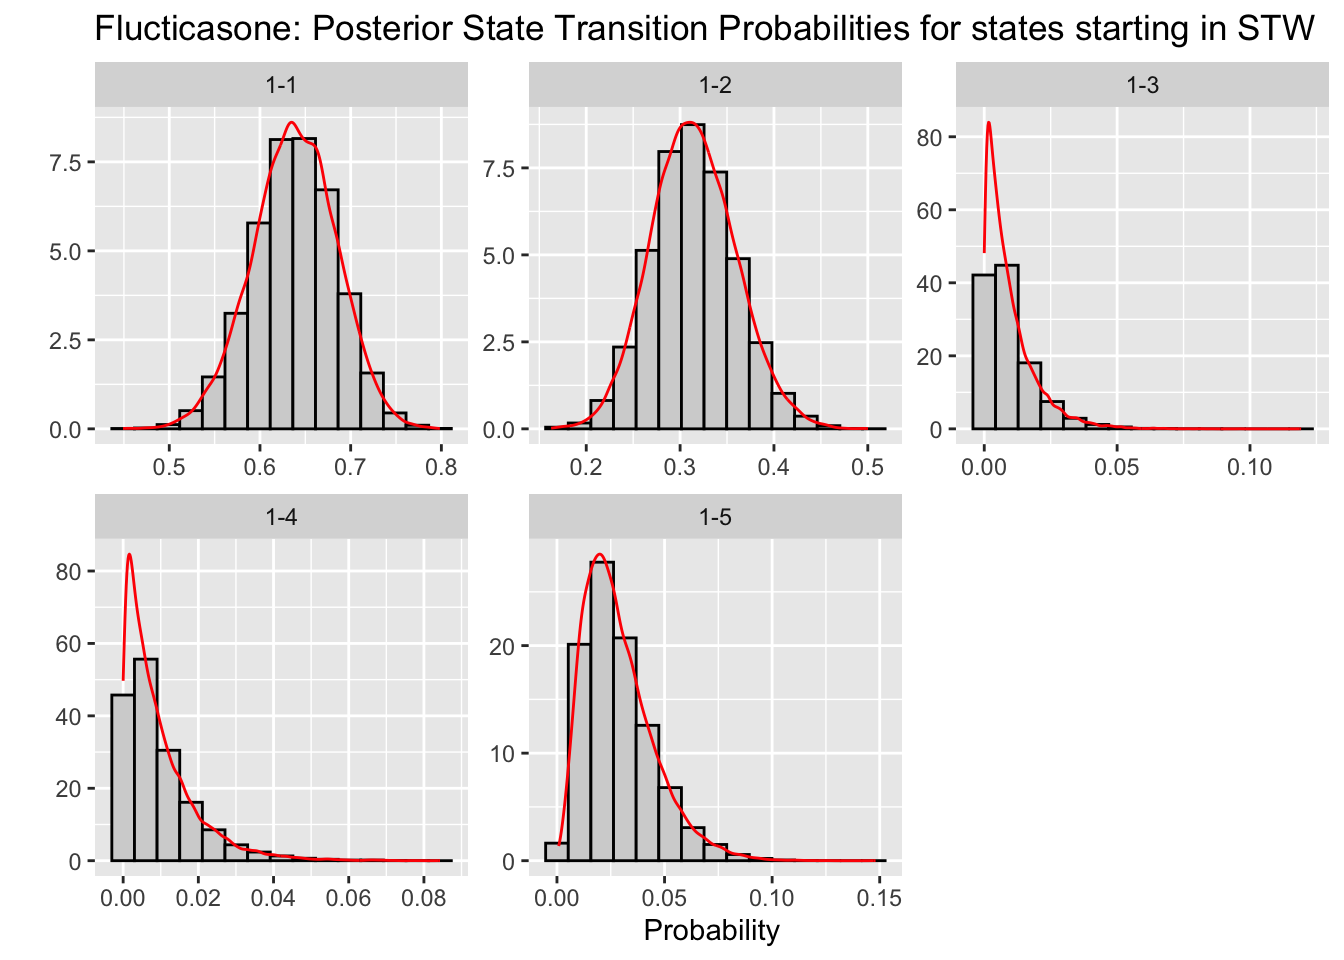
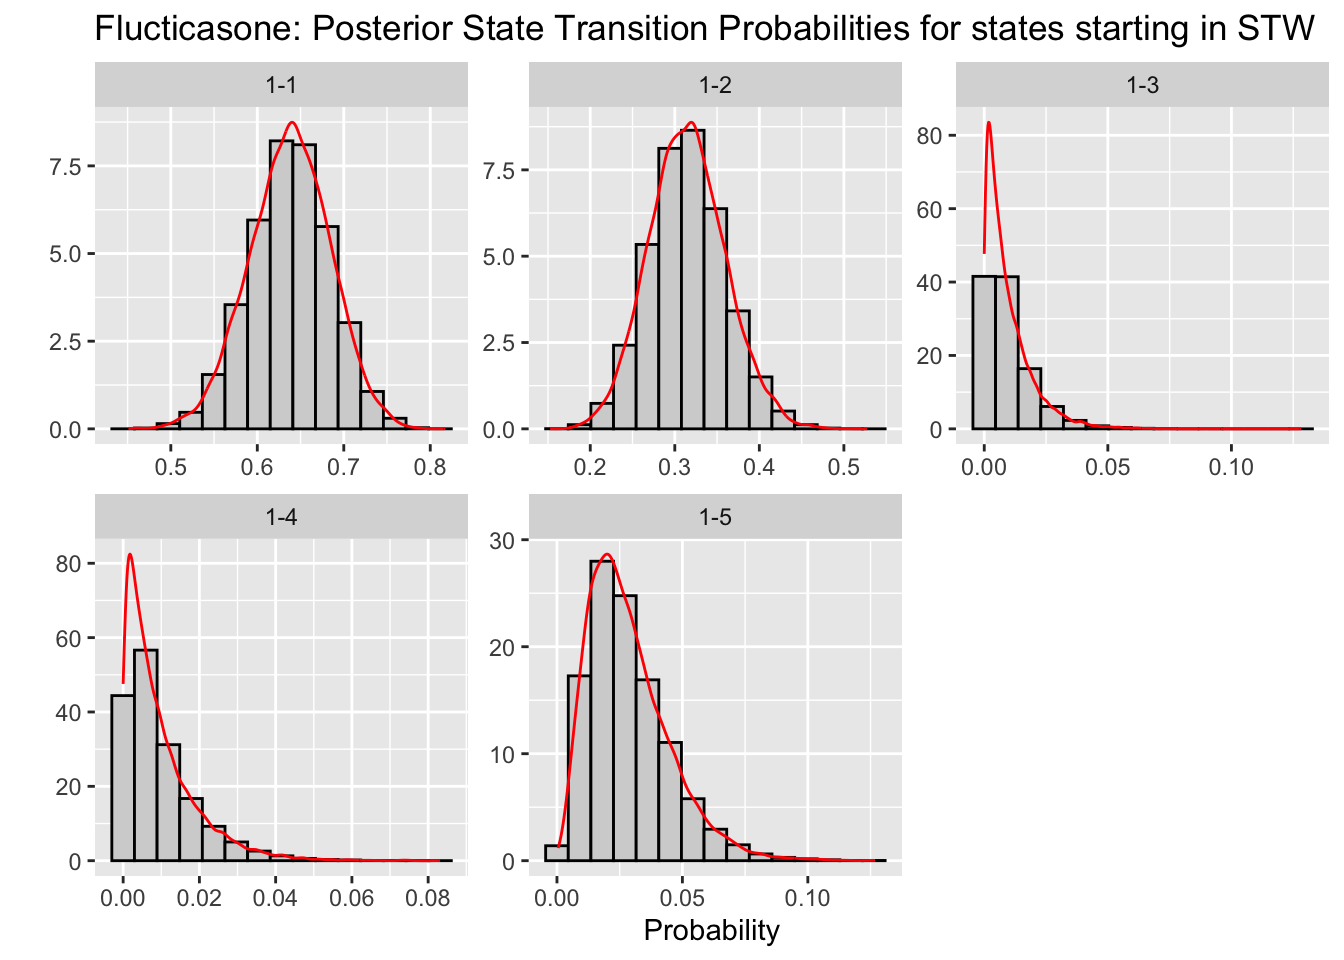
JBR: Added section on Bayesian model

diff --git a/DT_Absorbing_MC/Index.html b/DT_Absorbing_MC/Index.html
@@ -258,9 +258,15 @@ Pex   0   4   0   1  0</code></pre>
 </div>
 </div>
 </section>
-<section id="conjugate-prior-results" class="level2">
-<h2 class="anchored" data-anchor-id="conjugate-prior-results">Conjugate Prior Results</h2>
-<p>In this section we compute the posterior distributions of the transition probabilities using the conjugate prior approach. The Dirichlet distribution is the conjugate prior for the multinomial distribution, so the posterior distribution is also a Dirichlet distribution. The parameters of the posterior distribution are the sum of the prior parameters and the observed counts.</p>
+<section id="the-bayesian-model" class="level2">
+<h2 class="anchored" data-anchor-id="the-bayesian-model">THe Bayesian Model</h2>
+<p>In this section we compute the posterior distributions of the transition probabilities using the conjugate prior approach. The Dirichlet distribution is the conjugate prior for the multinomial distribution, so the posterior distribution is also a Dirichlet distribution.</p>
+<section id="the-dirichlet-distribution" class="level3">
+<h3 class="anchored" data-anchor-id="the-dirichlet-distribution">The Dirichlet Distribution</h3>
+<p>The <a href="https://en.wikipedia.org/wiki/Dirichlet_distribution">Dirichlet distribution</a> is a multivariate generalization of the beta distribution which is parameterized by a vector of positive real numbers, and is defined over a simplex a generalization of the concept of a triangle to higher dimensions. The probability density function (PDF) of the Dirichlet distribution is given by:</p>
+<p><span class="math display">\[ p(x) = \dfrac{\Gamma(\alpha_0)}{\Gamma(\alpha_1)...\Gamma(\alpha_n)} \prod_{i = 1}^{n}x_i^{\alpha_i - 1}I(x \in S)\]</span></p>
+<p>where <span class="math inline">\(\alpha_0 = \sum_{i=1}^{n} \alpha_i\)</span>, <span class="math inline">\(I(x)\)</span> is the indicator function, <span class="math inline">\(\Gamma\)</span> is the gamma function, and the simplex <span class="math inline">\(S = x \in \mathbb{R}^n: x_i &gt; 0, \sum_{i=1}^{n} x_i = 1\)</span> is the space of probability distributions. You can think of the Dirichlet distribution as a distribution on probability distributions. It models proportions or probabilities that sum to one, such as the transition probabilities in a Markov chain, and is often used as a prior distribution in Bayesian models since it is conjugate with the Multinomial distribution. (See Tufts in the references below.). The parameters of the Dirichlet posterior distrioution is the vector sum of the prior parameters and the observed counts. When the <span class="math inline">\(\alpha_i\)</span> parameters are all equal, the Dirichlet distribution is symmetric and uniform over the simplex. When the parameters are unequal, the distribution is skewed towards the larger parameters. In the code below the <span class="math inline">\(\alpha_i\)</span> parameters are set to 1.</p>
+</section>
 <section id="seretide-simulations" class="level3">
 <h3 class="anchored" data-anchor-id="seretide-simulations">Seretide Simulations</h3>
 <div class="cell">
@@ -412,7 +418,7 @@ TF  0.00 0.00 0.00 0.00 1.00</code></pre>
 STW 0.64 0.31 0.01 0.01 0.03
 UTW 0.05 0.05 0.05 0.05 0.05
 Hex 0.20 0.20 0.20 0.20 0.20
-Pex 0.29 0.14 0.14 0.14 0.28
+Pex 0.29 0.14 0.14 0.14 0.29
 TF  0.00 0.00 0.00 0.00 1.00</code></pre>
 </div>
 </div>
@@ -422,7 +428,7 @@ TF  0.00 0.00 0.00 0.00 1.00</code></pre>
 <section id="fundamental-matrix" class="level3">
 <h3 class="anchored" data-anchor-id="fundamental-matrix">Fundamental Matrix</h3>
 <p>For an absorbing Markov Chain, the fundamental matrix, <span class="math inline">\(N\)</span>, gives the expected number of times the process is in each transient state before absorption occurs. <span class="math inline">\(N\)</span> is calculated by the formula <span class="math inline">\(N = (I - Q)^{-1}\)</span>, where <span class="math inline">\(I\)</span> is the identity matrix and <span class="math inline">\(Q\)</span> is the sub-matrix of transition probabilities for non-absorbing states.</p>
-<p>The first step in computing <span class="math inline">\(N\)</span> is to partition the transition matrix into sub matrices of transient <span class="math inline">\(Q_\)</span>, and absorbing <span class="math inline">\(R\)</span> transition probabilities.</p>
+<p>The first step in computing <span class="math inline">\(N\)</span> is to partition the transition matrix into sub matrices of transient <span class="math inline">\(Q\)</span>, and absorbing <span class="math inline">\(R\)</span> transition probabilities.</p>
 <p><img src="N.png" class="img-fluid"></p>
 <section id="extract-the-q-matrix" class="level4">
 <h4 class="anchored" data-anchor-id="extract-the-q-matrix">Extract the Q matrix</h4>
@@ -499,10 +505,10 @@ Pex 0.29 0.14 0.14 0.14</code></pre>
 </details>
 <div class="cell-output cell-output-stdout">
 <pre><code>     STW  UTW  Hex  Pex
-STW 5.61 1.52 0.31 0.33
+STW 5.62 1.53 0.31 0.33
 UTW 1.41 1.60 0.30 0.30
-Hex 2.37 1.02 1.50 0.51
-Pex 2.50 0.94 0.40 1.41</code></pre>
+Hex 2.39 1.02 1.50 0.51
+Pex 2.51 0.94 0.40 1.41</code></pre>
 </div>
 </div>
 </div><div class="column" style="width:10%;">
@@ -517,7 +523,7 @@ Pex 2.50 0.94 0.40 1.41</code></pre>
 <pre><code>     STW  UTW  Hex  Pex
 STW 3.09 1.07 0.13 0.13
 UTW 0.30 1.19 0.10 0.10
-Hex 1.16 0.74 1.38 0.38
+Hex 1.17 0.74 1.38 0.38
 Pex 1.28 0.68 0.29 1.29</code></pre>
 </div>
 </div>
@@ -546,10 +552,10 @@ Pex 1.28 0.68 0.29 1.29</code></pre>
 </details>
 <div class="cell-output cell-output-stdout">
 <pre><code>    Seretide Flucticasone
-STW     7.77         4.42
-UTW     3.61         1.69
-Hex     5.40         3.66
-Pex     5.25         3.54</code></pre>
+STW     7.79         4.42
+UTW     3.62         1.70
+Hex     5.42         3.66
+Pex     5.27         3.53</code></pre>
 </div>
 </div>
 </section>
@@ -651,6 +657,13 @@ Fluticasone 2.05</code></pre>
 </div>
 </div>
 </section>
+</section>
+<section id="references" class="level2">
+<h2 class="anchored" data-anchor-id="references">References</h2>
+<p>Atanasov, N <a href="https://natanaso.github.io/ece276b/ref/Grinstead-Snell-Ch11.pdf">Chapter 11: Markov Chains</a></p>
+<p>Briggs AH, Ades AE, Price MJ. <a href="https://journals.sagepub.com/doi/abs/10.1177/0272989X03255922">Probabilistic Sensitivity Analysis for Decision Trees with Multiple Branches: Use of the Dirichlet Distribution in a Bayesian Framework. Medical Decision Making</a>, 2003</p>
+<p>M Kavuru, J Melamed, G Gross, C Laforce, K House, B Prillaman, L Baitinger, A Woodring, T Shah, <a href="https://pubmed.ncbi.nlm.nih.gov/10856143/">Salmeterol and fluticasone propionate combined in a new powder inhalation device for the treatment of asthma: a randomized, double-blind, placebo-controlled trial</a></p>
+<p>Tufts, C. <a href="https://miningthedetails.com/LDA_Inference_Book/index.html">The Little Book of LDA</a></p>
 </section>
 
 </main>
